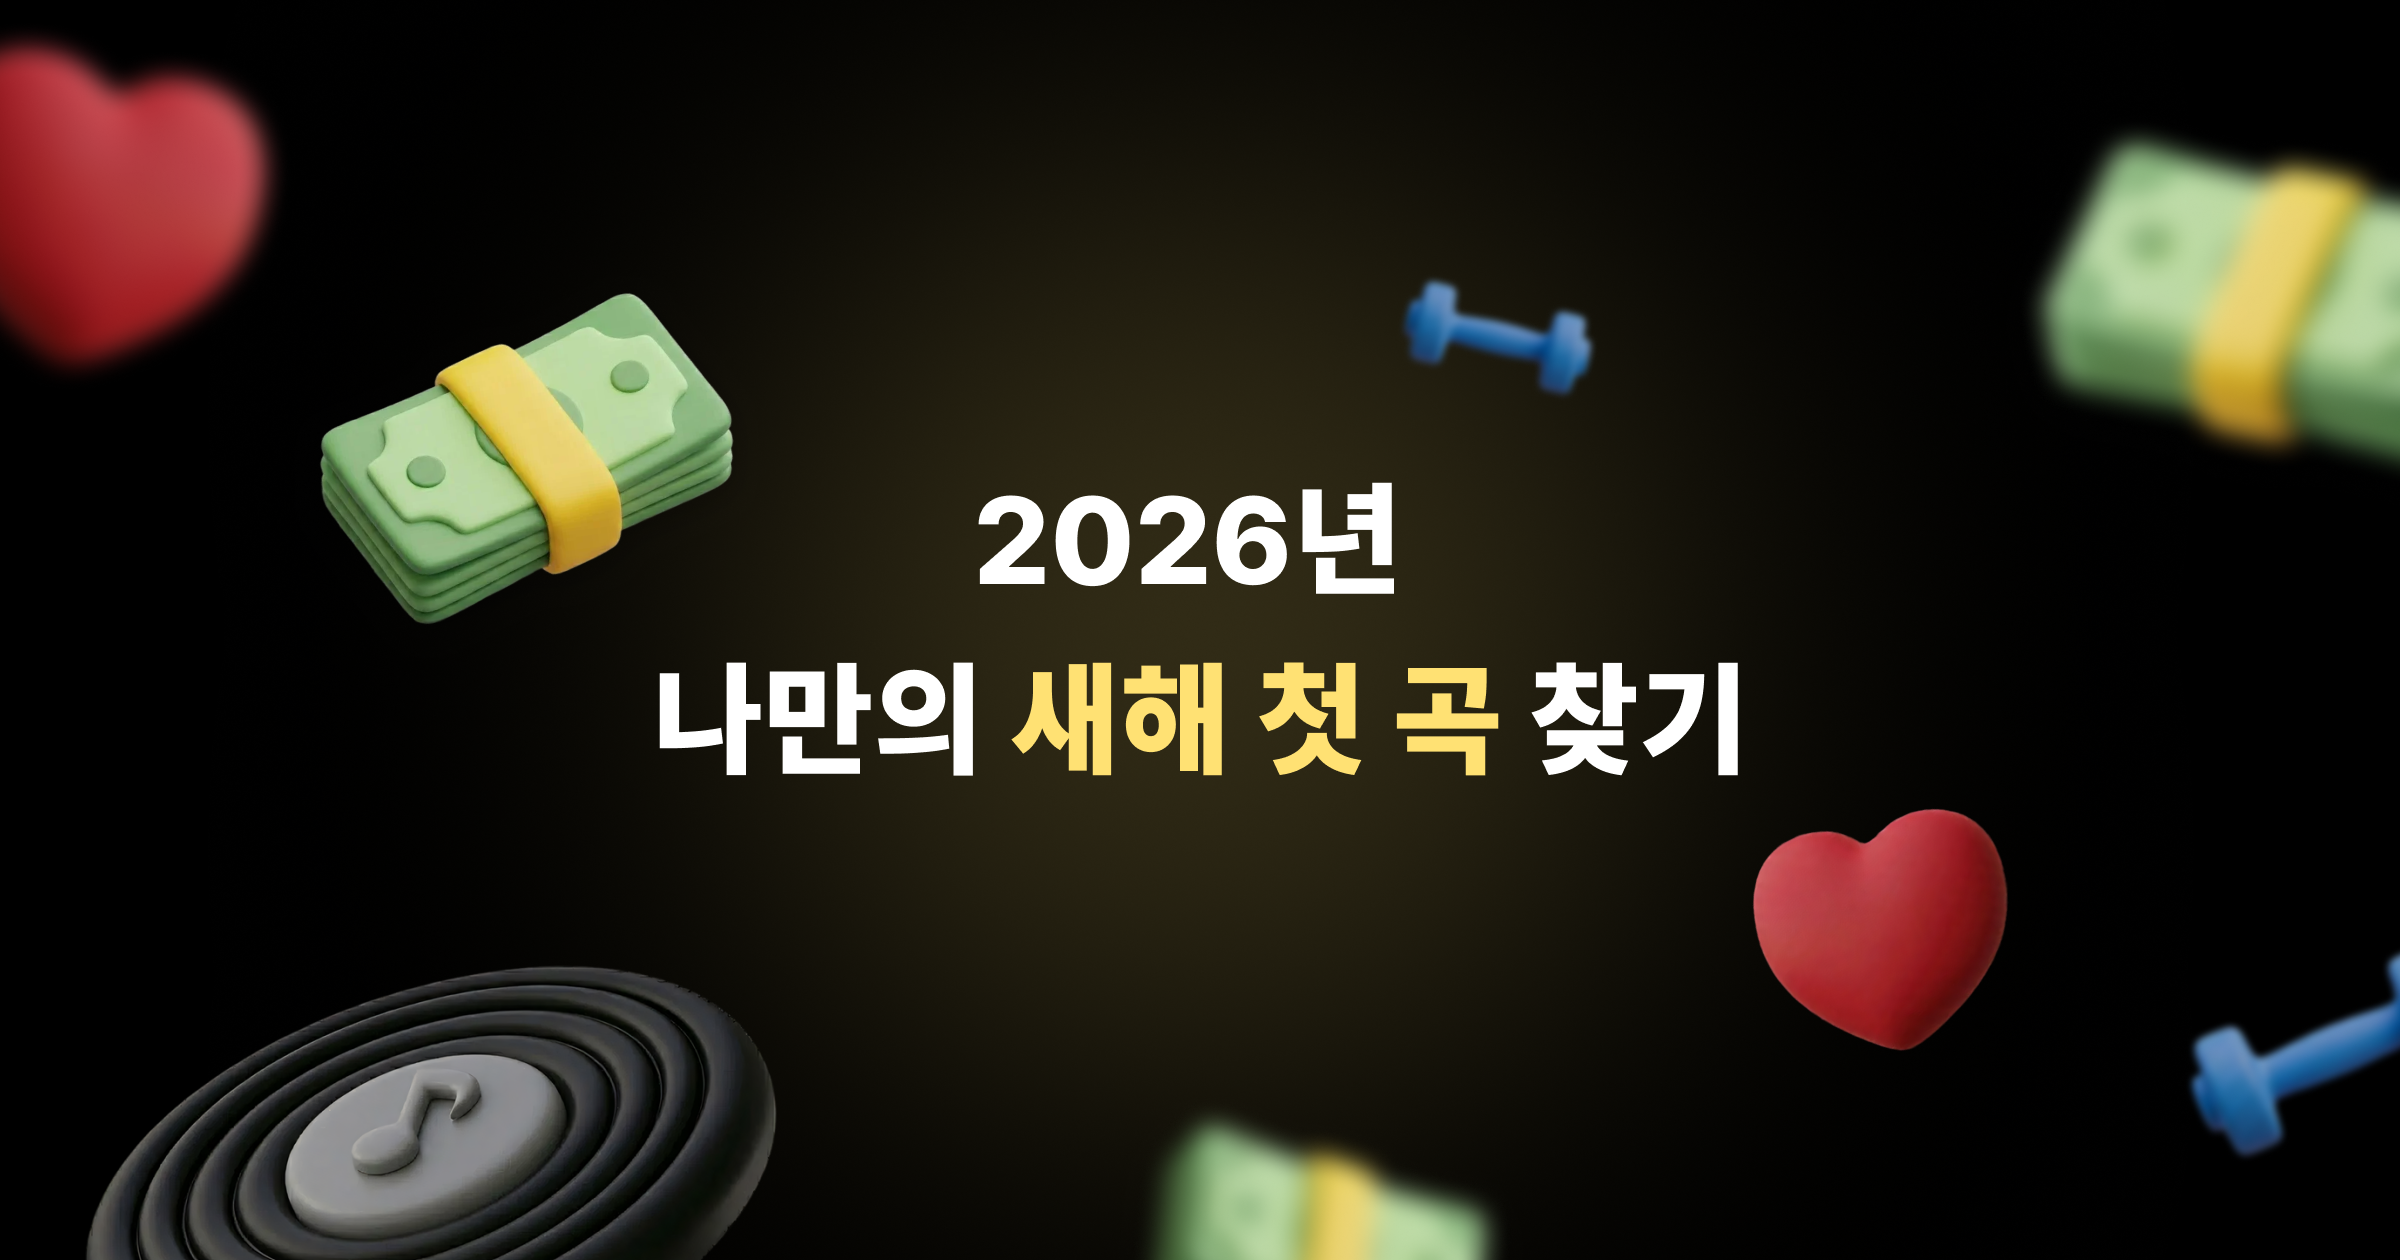
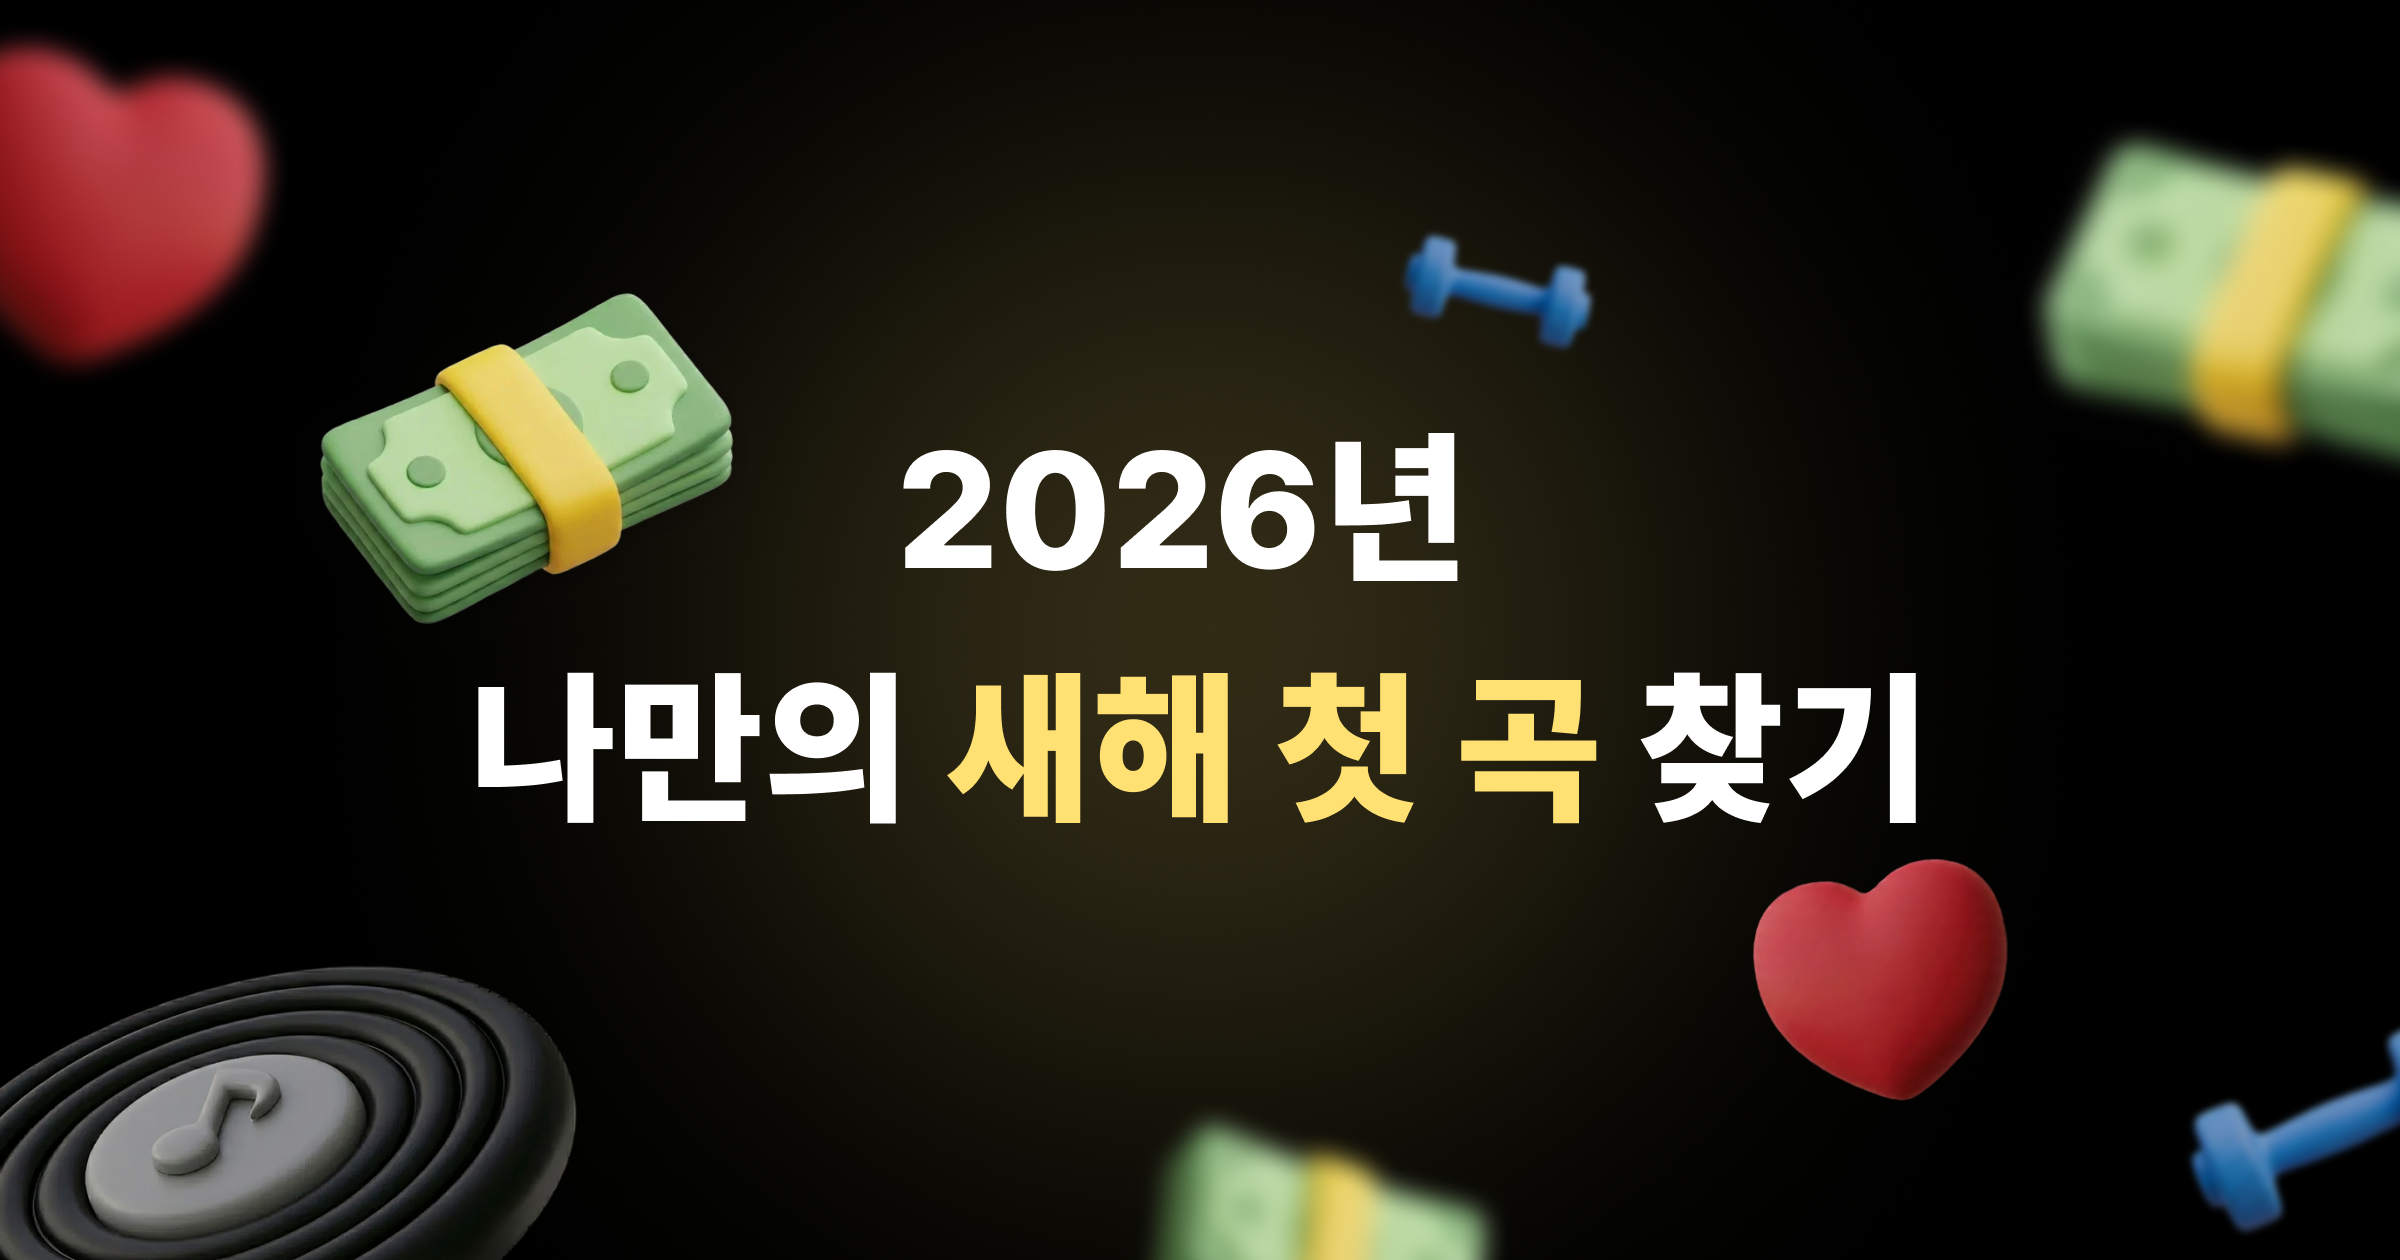
Add files via upload

diff --git a/index.html b/index.html
@@ -15,8 +15,10 @@
 
     <meta property="og:type" content="website">
     <meta property="og:site_name" content="2026 새해 첫 곡">
-    <meta property="og:title" content="2026년, 당신이 들어야 할 새해 첫 곡은?">
-    <meta property="og:description" content="AI가 당신의 소원을 분석해서 2026년을 위한 완벽한 노래를 추천해드립니다.">
+    
+    <meta property="og:title" content="2026년 나만의 새해 첫 곡 찾기">
+    <meta property="og:description" content="새해 소원을 적고 2026년을 시작할 노래를 만나보세요.">
+    
     <meta property="og:image" content="https://2026-first-song.netlify.app/og-image.png">
     <meta property="og:url" content="https://2026-first-song.netlify.app">
 
